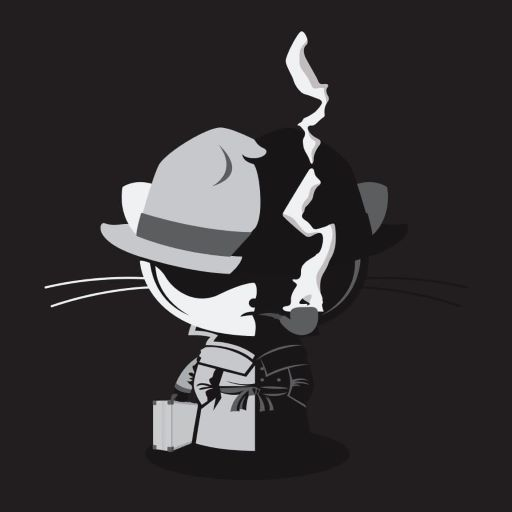
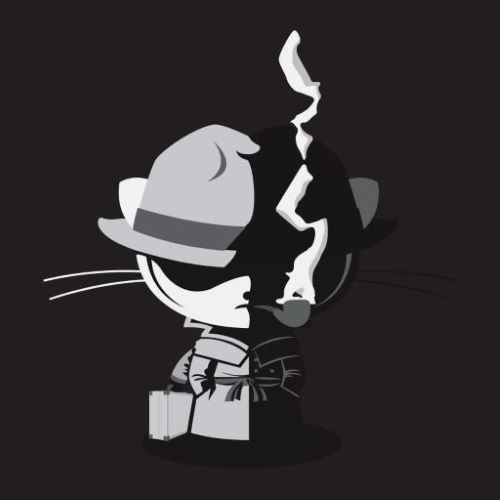
Resize img, add default img for common stem post

diff --git a/_layouts/home.html b/_layouts/home.html
@@ -7,7 +7,7 @@ layout: default
     {% for i in (0..3) %}
     <figure class="latest-post">
         {% if site.posts[i].layout == "post-common-stem" %}
-        <img src="{{ site.image_path }}/9814-min.jpg" class="title-post">
+        <img src="{{ site.image_path }}/pharmacysymbol.jpg" class="title-post">
         <a class="home-post-link" href="{{site.posts[i].url}}">
             {{ site.posts[i].title }}
         </a>
